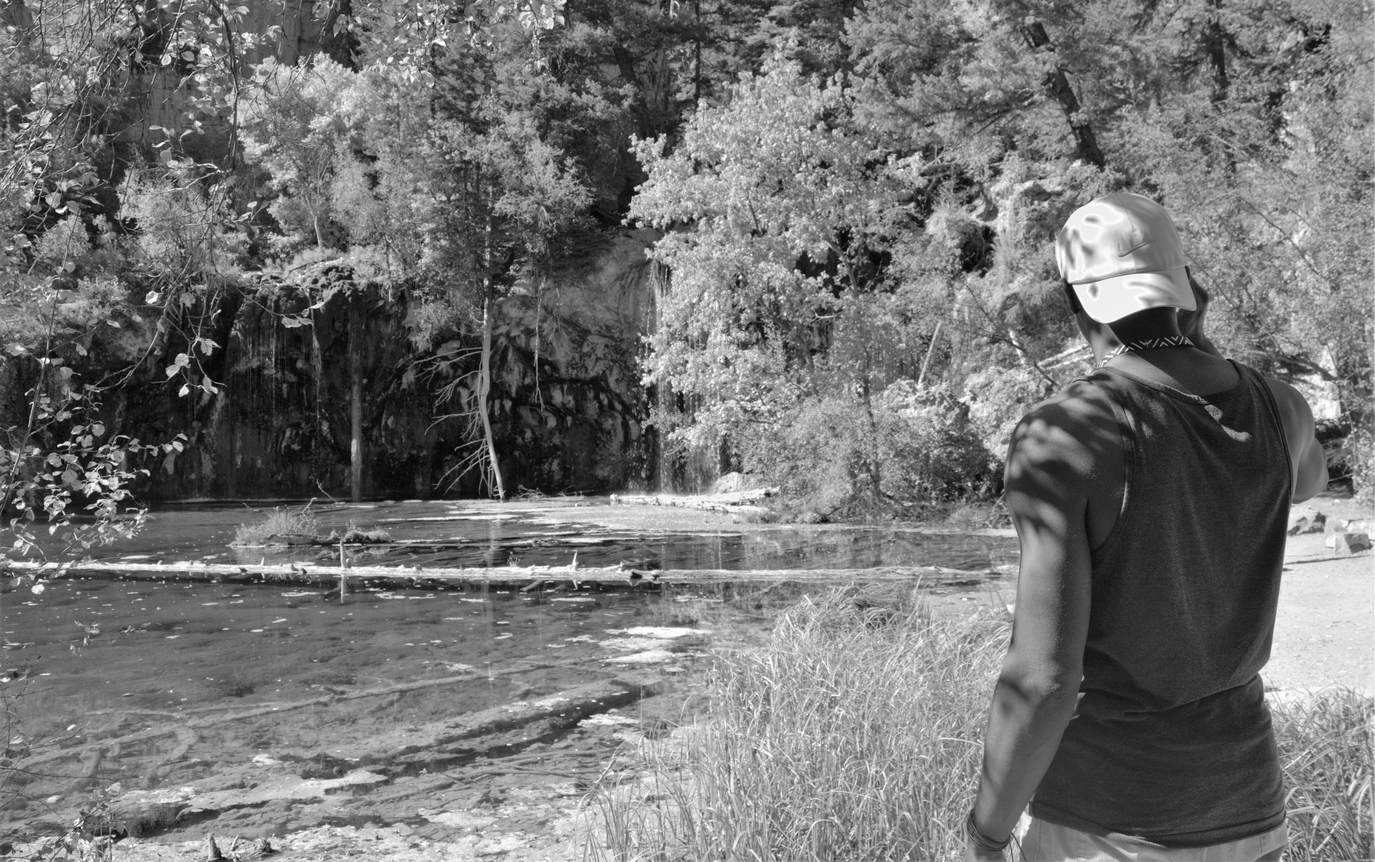
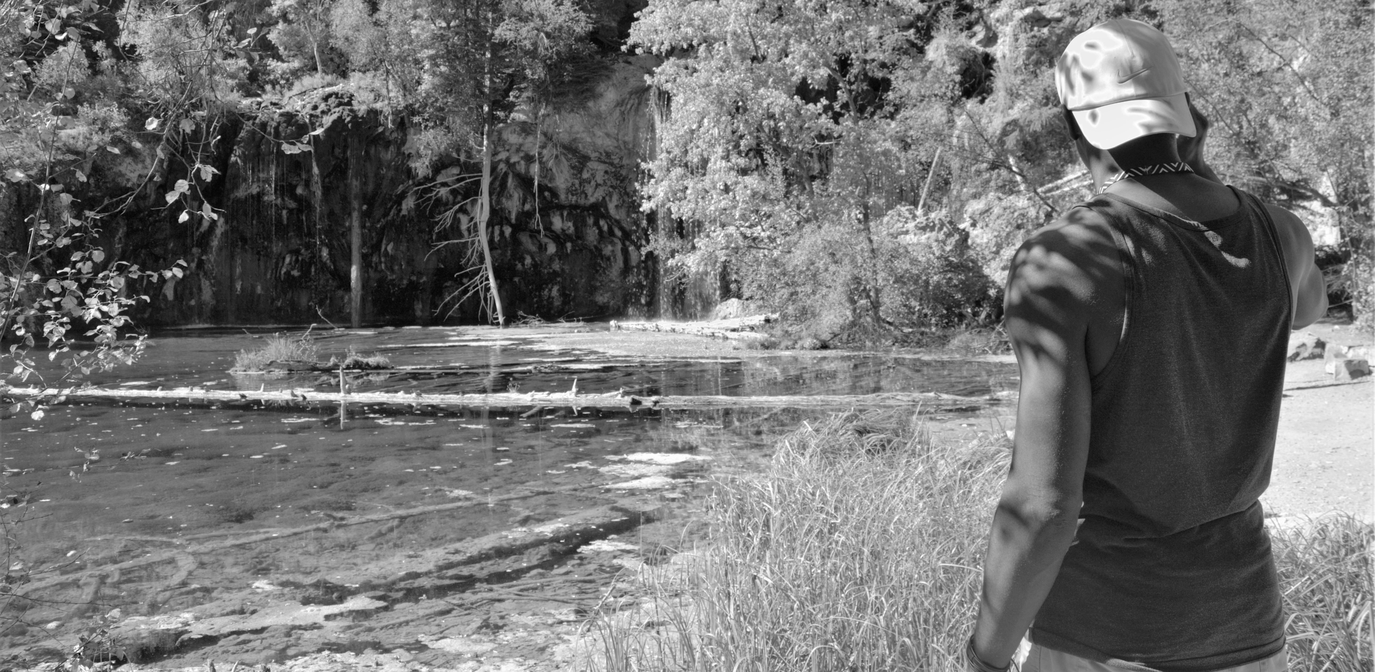
Added Color Scheme
Border changes as well

diff --git a/index.html b/index.html
@@ -5,6 +5,7 @@
     <meta name="viewport" content="width=device-width, initial-scale=1">  
     <link rel="stylesheet" href="https://maxcdn.bootstrapcdn.com/bootstrap/3.3.6/css/bootstrap.min.css" integrity="sha384-1q8mTJOASx8j1Au+a5WDVnPi2lkFfwwEAa8hDDdjZlpLegxhjVME1fgjWPGmkzs7" crossorigin="anonymous">
     <link rel="stylesheet" href="main.css">
+    <link href='https://fonts.googleapis.com/css?family=Handlee' rel='stylesheet' type='text/css'>
     <script src="http://ajax.googleapis.com/ajax/libs/jquery/1.11.2/jquery.min.js"></script>
     <script src="https://maxcdn.bootstrapcdn.com/bootstrap/3.3.6/js/bootstrap.min.js" integrity="sha384-0mSbJDEHialfmuBBQP6A4Qrprq5OVfW37PRR3j5ELqxss1yVqOtnepnHVP9aJ7xS" crossorigin="anonymous"></script>
     <title>Perry Stephenson | Virginia Commonwealth University | Computer Science - Senior</title>
@@ -15,7 +16,7 @@
     <!--Navigation Bar-->
     
     <div class="nav navbar-default navbar-fixed-top">
-        <div class="container-fluid">
+        <div class="container-fluid" id="changepadding">
             <div class="navbar-header">
                 <button type="button" class="navbar-toggle collapsed" data-toggle="collapse" data-target=".navbar-collapse" aria-expanded="false">
                   <span class="sr-only">Toggle navigation</span>
@@ -23,11 +24,10 @@
                   <span class="icon-bar"></span>
                   <span class="icon-bar"></span>
                 </button>
-                    <a class="navbar-brand" href="#">PERRYJULIAN</a>
+                    <a class="navbar-brand" id="newcolor" href="#">PERRYJULIAN.</a>
             </div>
             <div class="collapse navbar-collapse pull-right">
-                <ul class="nav navbar-nav">
-                    <li><a href="#home">HOME</a></li>
+                <ul class="nav navbar-nav" id="target">
                     <li><a href="#about">ABOUT</a></li>
                     <li><a href="#experience">EXPERIENCE</a></li>
                     <li><a href="#projects">PORTFOLIO</a></li>
@@ -37,39 +37,65 @@
         </div>
     </div>
     
-    <!--Home-->
+    <!--About-->
     
-    <div class="jumbotron" id="home">
-        <div class="container-fluid jumbotron-img">
-            <img id="jumbotron-img" class="img-responsive" src="background_img1.jpg">  
+    <div class="jumbotron" id="about">
+        <div class="container-fluid full-width">
+            <div class="row" id="jumbotron-row">
+                <div class="col-xs-12  jumbotron-img">
+                    <img id="jumbotron-img" class="img-responsive" src="background_img2.jpg">  
+                </div>
+            </div>
+            <div class="row" id="about-row">
+                <div class="col-md-3">
+                    
+                </div>
+                <div class="col-xs-12 col-md-6" id="about-text">
+                    <table style="margin-top: 40px"><!--Remove style from this area-->
+                        <tr>
+                            <td>
+                                <p>New to the web development field, I am currently a student
+                                finishing up my undergrad at VCU in Richmond, VA.</p>
+                            </td>
+                        </tr>
+                        <tr>
+                            <td>
+                                <p>My programming background has given me the skills to focus on how
+                                we interact with web content to create a unique yet natural
+                                feeling experience that can enhance the quality of any webpage.</p>
+                            </td>
+                        </tr>
+                        <tr>
+                            <td>
+                                <p>When I'm not behind a computer, you can probably find me
+                                exploring at the river or binge watching HBO.</p>
+                            </td>
+                        </tr>
+                        <tr>
+                            <td>
+                                <p id="got" style="font-size: .40em"><i>Winter Is Coming</i></p>
+                            </td>
+                        </tr>
+                    </table>
+                </div>
+            </div>
         </div>
     </div>
     
     <!--About-->
     
-    <div class="about" id="about">
-        <div class="container-fluid ">
-            <div class="row">
-                <div class="col-xs-12 col-md-6">
-                    
-                </div>
-                <div class="col-xs-12 col-md-6">
-                    
-                </div>
-            </div>
-        </div>
-    </div>
+    
     
     <!--Page Break 1-->
     
     <div class="page-break page-break1"><!--hidden-xs-->
         <div class="container-fluid">
             <div class="row" id="row1">
-                <div class="col-xs-12">   
-                    <div id="quote">
-                        <p>"Design is not just what it looks like and feels like. Design is how it works."</p>
+                <div class="col-xs-12" id="quote">   
+                    
+                        <p style="font-size: 1.5em"><strong>"Design is not just what it looks like and feels like. Design is how it works."</strong></p>
                         <p>- Steve Jobs</p>
-                    </div>
+                    
                 </div>             
             </div>
         </div>    
@@ -87,7 +113,7 @@
             
             <div class="col-md-5">
                 <div class="page-header">
-                    <h1>Programming Knowledge</h1>
+                    <h1 id="experience-header">Programming Background</h1>
                 </div>
                 <div>
 
@@ -116,12 +142,12 @@
                                 </li>
                                 <li role="presentation">
                                     <a href="#version-control" aria-controls="profile" role="tab" data-toggle="pill">
-                                        Version Control Systems
+                                        Version Control Management
                                     </a>
                                 </li>
                                 <li role="presentation">
                                     <a href="#mobile-os" aria-controls="messages" role="tab" data-toggle="pill">
-                                        Mobile OS
+                                        Mobile OS Development
                                     </a>
                                 </li>
                             </ul>
@@ -204,7 +230,7 @@
             
             <div class="col-md-3">
                 <div class="page-header">
-                    <h1>Education</h1>
+                    <h1 id="experience-header">Education</h1>
                 </div>
                 <br>
                 <h4><strong>Virginia Commonwealth University</strong></h4>
@@ -304,6 +330,8 @@
     
     
     <!--JQUERY-->
+    
+    
     <script src="http://ajax.googleapis.com/ajax/libs/jquery/1.11.2/jquery.min.js"></script>
     <!--<script>
         $('document').ready(function() {
@@ -315,7 +343,7 @@
     <script>
         $('.navbar-nav a').click(function(){
                 var link = $(this).attr('href');
-                var position = $(link).offset().top ;
+                var position = $(link).offset().top +20 ;
             $('body').animate({scrollTop:position},1000);   
         });
     </script>

diff --git a/main.css b/main.css
@@ -1,37 +1,127 @@
 body {
-    position: relative;
-   
+    position: relative;  
 }
+
 .navbar-default {
-    background-color: rgba(39,39,39,1); 
+    background-color: rgba(39,39,39,1);
+    border-bottom: 2px solid white;
+}
+#changepadding{
+    padding:0px;
+}
+#newcolor{
+     color: #009898;
 }
 
 .navbar-nav {
     background-color: rgba(39,39,39,.9);
 }
+
+.navbar-nav li {
+    border-left: 1px solid #FFBF40;
+}
+
+#target a:hover {
+    background-color: #A60000;
+    color: #FFAA00;
+}
+
 .jumbotron {
-    background-color: rgba(0,0,0, 1);
+    background-color: rgba(39,39,39, 1);
     padding-bottom: 0px;
     margin-bottom: 0px;
+}
+.full-width {
+    padding: 0px;
 }
 .jumbotron-img {  
     padding: 0px;
 }
-#jumbotron-img {
-    max-width: 100%;
+#jumbotron-row{
+    margin:0px;
 }
 
-.about{
-    height: 400px;
+#jumbotron-img {
+    margin: auto;
+    max-width: 100%;
+    height: auto;
+}
+
+#about{
     text-align: center;
-    background-color: rgba(39,39,39,.9);
+    background-color: rgba(39,39,39,1);
+    color: white;
+    font-size: 2em;
+    font-family: 'Handlee', cursive;
 }
+
+#about-row {
+    margin: 0px;
+    
+    border-left-width:5px;
+    border-left-style: solid;
+    border-right-width:0px;
+    border-right-style: solid;
+    
+    -webkit-border-image: -webkit-gradient(linear, 0 0, 0 100%, from(rgba(39,39,39,1)), to(rgba(0,233,233,1))) 1 100%;
+    -webkit-border-image: -webkit-linear-gradient(rgba(39,39,39,1), rgba(0,233,233,1)) 1 100%;
+    -moz-border-image: -moz-linear-gradient(rgba(39,39,39,1), rgba(0,233,233,1)) 1 100%;    
+    -o-border-image: -o-linear-gradient(rgba(39,39,39,1), rgba(0,233,233,1)) 1 100%;
+    border-image: linear-gradient(to bottom, rgba(39,39,39,1), rgba(0,233,233,1)) 1 100%;
+}
+/*#about-text {
+    border-left: 45px solid #A60000;
+    border-right: 2px solid #A60000;
+}*/
+
+#about-text {
+    padding-top: 80px;
+    padding-bottom: 5px;
+
+    /*ABOUT*/
+    
+
+}
+
+#got{
+    color: #00E9E9;
+}
+
 .page-break1 {
-   background-color: rgba(39,39,39,.3); 
+   background-color: rgba(39,39,39,1);
+   border-top: 2px solid #00E9E9;
+   border-bottom: 2px solid white;
+   
+   
+   
 }
+
 #quote {
     text-align: center;
-    color: black;
+    color: rgba(255,191,64,1);
+    font-family: 'Handlee', cursive;
+    padding-top: 35px;
+    padding-bottom: 30px;
+    border-left-width:5px;
+    
+    border-left-style: solid;
+    border-right-width:0px;
+    border-right-style: solid;
+    
+    -webkit-border-image: -webkit-gradient(linear, 0 0, 0 100%, from(rgba(0,233,233,1)), to(rgba(255,255,255,1))) 1 100%;
+    -webkit-border-image: -webkit-linear-gradient(rgba(0,233,233,1), rgba(255,255,255,1)) 1 100%;
+    -moz-border-image: -moz-linear-gradient(rgba(0,233,233,1), rgba(255,255,255,1)) 1 100%;    
+    -o-border-image: -o-linear-gradient(rgba(0,233,233,1), rgba(255,255,255,1)) 1 100%;
+    border-image: linear-gradient(to bottom, rgba(0,233,233,1), rgba(255,255,255,1)) 1 100%;
+}
+
+.education {
+    background-color: rgba(39,39,39,1);
+}
+
+#experience-header {
+    color: rgba(166,111,0,1);
+    font-family: "Comic Sans MS", cursive, sans-serif;
 }
 
 #row2 {
@@ -43,6 +133,12 @@ body {
 
 .page-break2 {
    background-color: rgba(39,39,39,.5); 
+}
+
+#experience{
+    padding-top:80px;
+    border-image-source: ;
+    background-color: rgba(39,39,39,.1);
 }
 
 .page-break3 {
@@ -82,9 +178,9 @@ body {
 
 
 .glow {
-    -webkit-filter: blur(5px);
+   /* -webkit-filter: blur(5px);
     filter: blur(5px);
-    box-shadow: 10px 15px 45px #fff;
+    box-shadow: 10px 15px 45px #fff;*/
 }
 
 .page-header {
